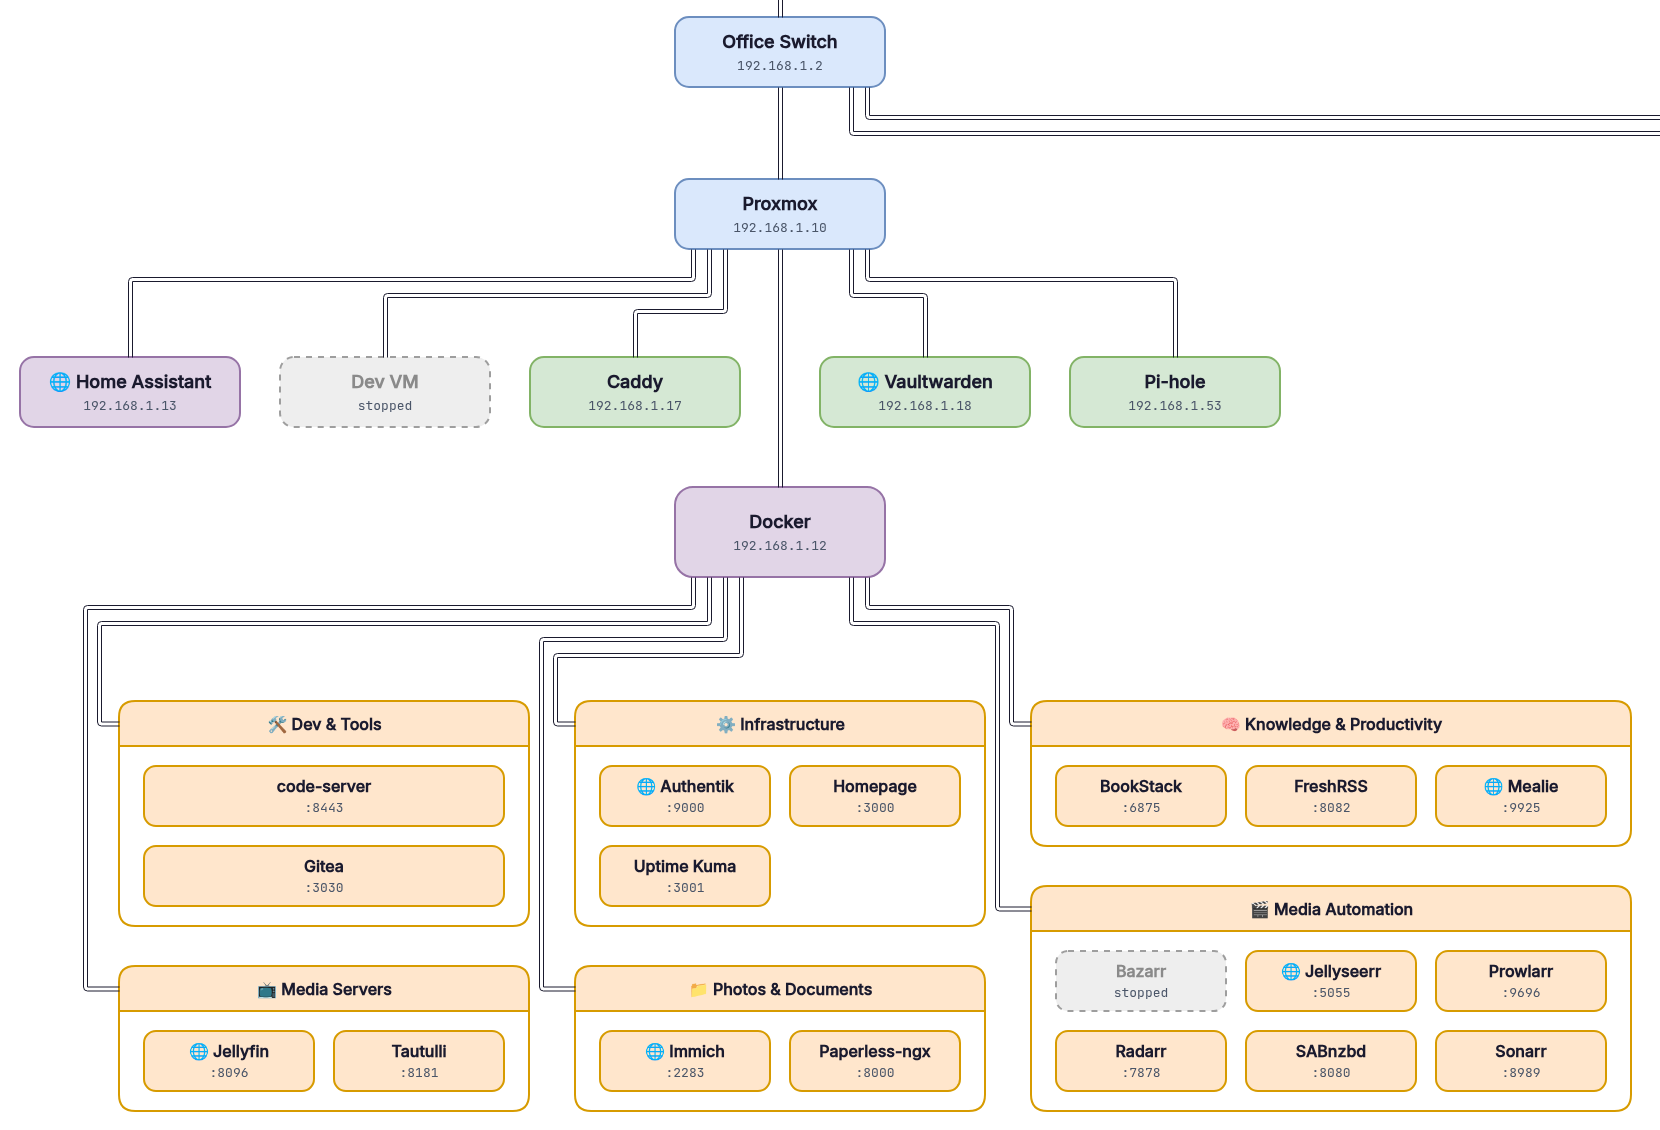
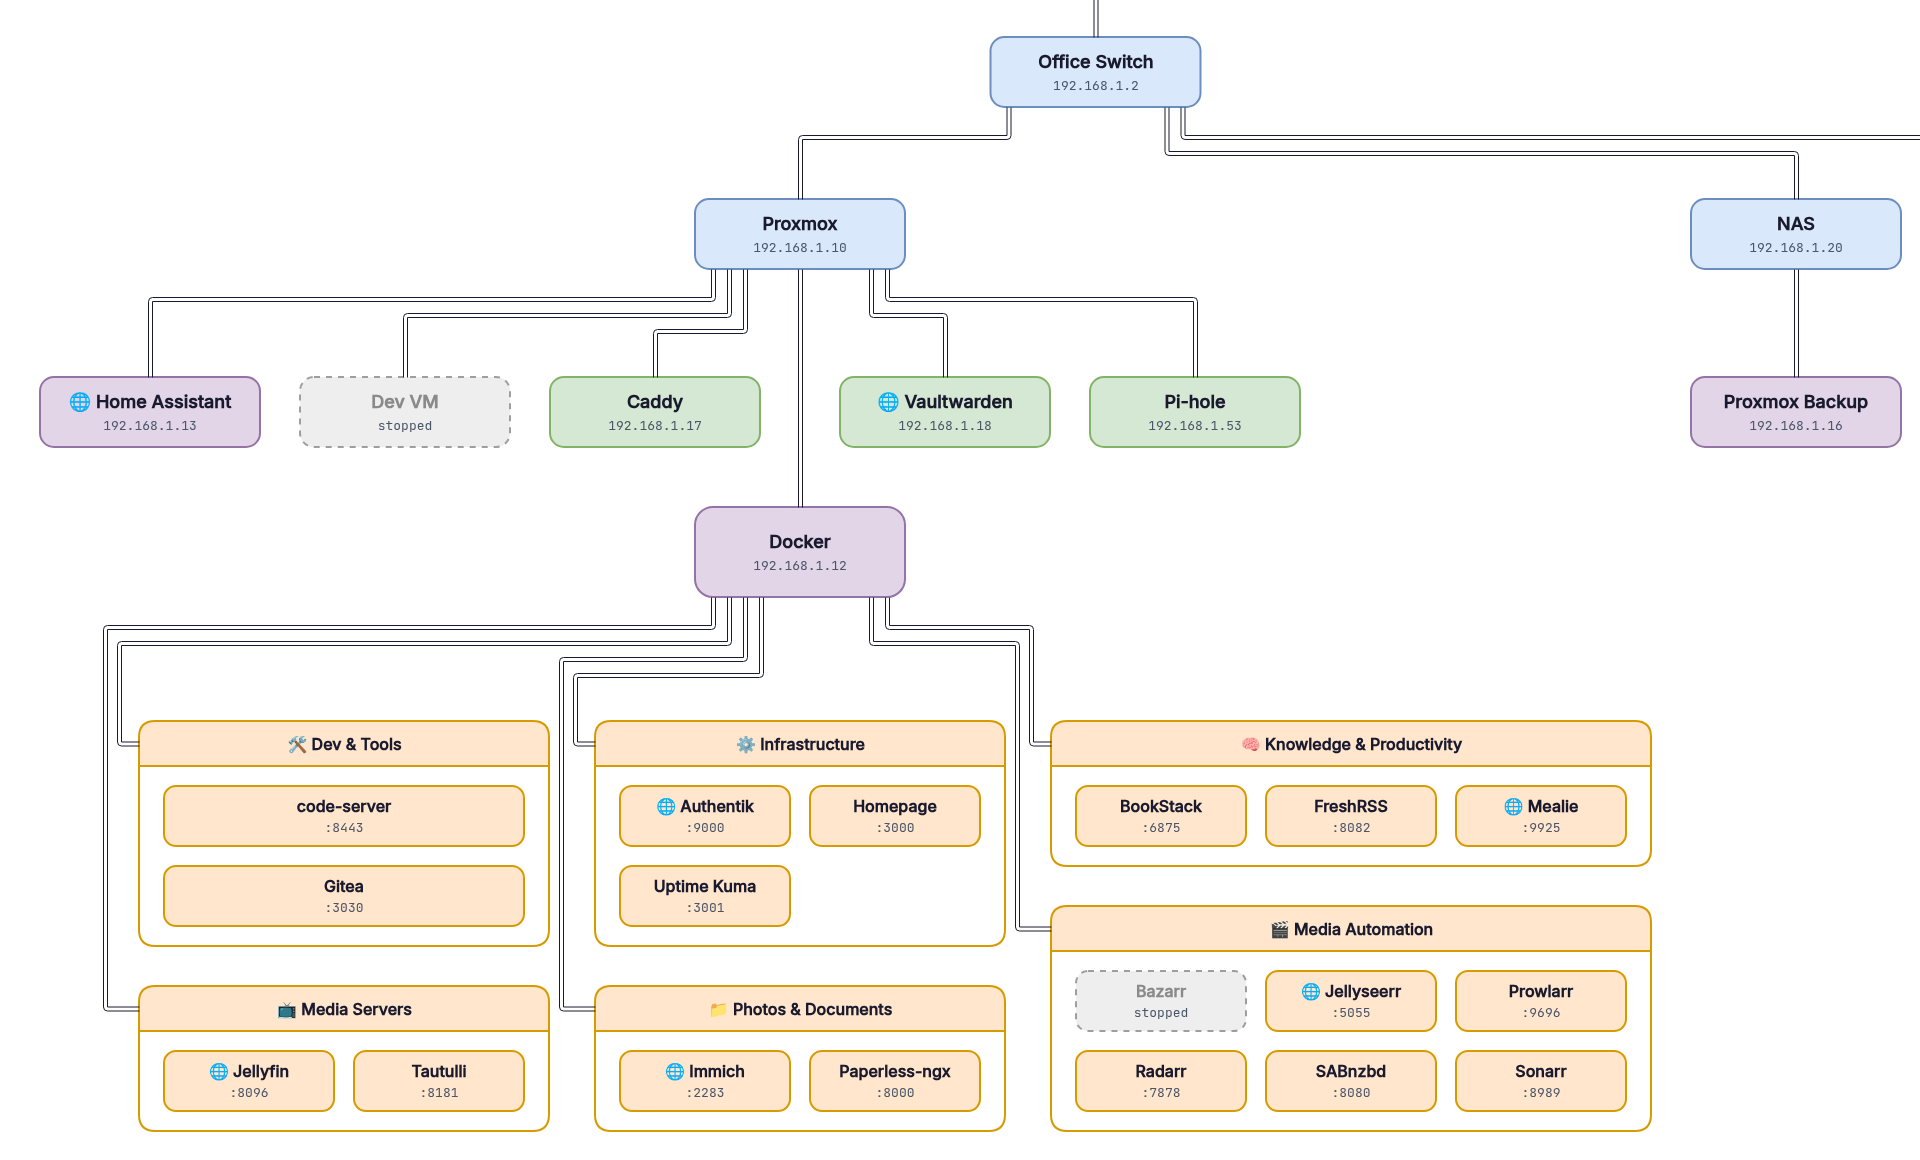
Lay out each tier as one straight row; keep the arrangement stable
Stacking short branches under their neighbours saved space but forced lines
into boxes from the side. It's now opt-in (layout.stack); by default every
tier is one row and every line runs down, across and down into its box.

The chosen column counts are remembered in the saved state, so small changes
(a phone roaming between access points) don't reshuffle the map; a fresh
arrangement replaces it only if it's at least 5% better.

diff --git a/homelab_map/layout.py b/homelab_map/layout.py
@@ -228,6 +228,7 @@ class _Col:
         self.members = members
         self.margin = CHANNEL_GAP + (len(members) - 2) * CHANNEL_STEP + CLEAR
         self.w = self.x = 0
+        self.direct = [True] + [False] * (len(members) - 1)  # fed straight down into its top?
 
     def measure(self):
         self.w = self.margin + max(_item_w(m) for m in self.members)
@@ -236,7 +237,21 @@ class _Col:
         return self.x + self.margin - CHANNEL_GAP - (j - 1) * CHANNEL_STEP
 
     def channels(self):
-        return [self.channel(j) for j in range(1, len(self.members))]
+        return [self.channel(j) for j in range(1, len(self.members)) if not self.direct[j]]
+
+    def route(self):
+        """A lower one gets a straight line down into its top when nothing above it in the column (boxes,
+        lines, or the side lines into those) is in the way; otherwise it uses its channel."""
+        pad = EDGE_PAD + BOX_PAD + 2
+        spans = []
+        for j, m in enumerate(self.members):
+            cx = m.x + m.w / 2
+            if j:
+                self.direct[j] = all(cx < lo - pad or cx > hi + pad for lo, hi in spans)
+            lo, hi = _x_extent(m)
+            if not self.direct[j]:
+                lo = min(lo, self.channel(j))
+            spans.append((lo, hi))
 
     def top_x(self):
         m = self.members[0]
@@ -263,6 +278,11 @@ class _Tree:
 
 def _is_leaf(it):
     return isinstance(it, _Lane) or (isinstance(it, _Tree) and not it.items and not it.grid and not it.hoisted)
+
+
+def _key(it):
+    """What a stacking choice calls a child: its node id, or its lane's key (stable between runs)."""
+    return it.node.id if isinstance(it, _Tree) else it.key
 
 
 def _col_of(t):
@@ -369,16 +389,13 @@ def build_tree(graph, cfg, opts=None, children=None):
                 it.depth = depth + 1
         stack = opts.get("stack", {}).get(node.id)
         if stack and not t.hoisted:
-            i, j, reverse = stack
-            movable = [it for it in t.items if not (isinstance(it, _Lane) and it.side)]
-            if 0 <= i < j < len(movable):
-                members = movable[i:j + 1]
-                if reverse:
-                    members = members[::-1]
+            movable = {_key(it): it for it in t.items if not (isinstance(it, _Lane) and it.side)}
+            members = [movable[k] for k in stack if k in movable]
+            if len(members) >= 2:
                 # each lower one starts below everything above it (rows are fixed up again after placing)
                 for a, b in zip(members, members[1:]):
                     _shift_depth(b, _max_depth(a) + 1 - (depth + 1))
-                pos = t.items.index(movable[i])
+                pos = min(t.items.index(m) for m in members)
                 t.items = [it for it in t.items if it not in members]
                 t.items.insert(pos, _Col(members))
         return t
@@ -457,6 +474,7 @@ def _line_count(t):
 
 
 def _place_x(t, left):
+    t._left = left
     if t.vpn:  # room kept on the left for the VPN lane, if the node needed it (see _measure)
         outer_left = left
         left += t.vpn_pad
@@ -497,11 +515,17 @@ def _place_x(t, left):
     cx = near if abs(near - row_centre) <= t.w / 2 or len(centres) == 1 else row_centre
     t.x = min(max(cx - t.w / 2, left), left + inner - t.w)
     col = _col_of(t)
-    if col:  # the column's channels must not run under the node, or its lines would turn both ways
+    if col:
+        # The column's channels must not run under the node (its lines would turn both ways). Of the
+        # positions clear of them (where centring put it, or just right of them, above the column's
+        # top), take the one with the shortest lines.
         chs = col.channels()
-        lo, hi = min(chs) - CLEAR, max(chs) + CLEAR
-        if not (t.x + t.w < lo or t.x > hi):
-            t.x = hi
+        if chs:
+            lo, hi = min(chs) - CLEAR, max(chs) + CLEAR
+            options = [x for x in (t.x, hi, lo - t.w)
+                       if (x + t.w <= lo or x >= hi) and left <= x <= left + inner - t.w] or [hi]
+            xs = _targets_x(t)
+            t.x = min(options, key=lambda x: sum(abs(c - (x + t.w / 2)) for c in xs))
     if t.vpn:
         t.vpn.x = max(t.x - SIBLING_GAP - t.vpn.w, outer_left)
 
@@ -513,8 +537,38 @@ def _place_item(it, x):
         it.x = x
         for m in it.members:
             _place_item(m, x + it.margin)
+        # move each one right, up to just short of the straight line down into the one below it, so it
+        # sits beside that line instead of out at the column's edge (bottom pair first)
+        pad = EDGE_PAD + BOX_PAD + 4
+        for upper, lower in reversed(list(zip(it.members, it.members[1:]))):
+            line_x = lower.x + lower.w / 2
+            lo, hi = _x_extent(upper)
+            shift = (line_x - pad) - hi
+            if shift > 0:
+                _place_item(upper, lo + shift if isinstance(upper, _Lane) else upper_left(upper) + shift)
+        it.route()
     else:
         it.x = x
+
+
+def upper_left(it):
+    """Where a subtree's rectangle starts (what _place_x was given)."""
+    return _x_extent(it)[0] if not isinstance(it, _Tree) else it._left
+
+
+def _x_extent(it):
+    """Leftmost and rightmost x of anything drawn for `it` (boxes, and so the lines between them)."""
+    if isinstance(it, _Col):
+        ext = [_x_extent(m) for m in it.members] + [(c, c) for c in it.channels()]
+        return min(e[0] for e in ext), max(e[1] for e in ext)
+    lo, hi = it.x, it.x + it.w
+    if isinstance(it, _Tree):
+        for c in it.items + ([it.hoisted] if it.hoisted else []) + ([it.vpn] if it.vpn else []):
+            clo, chi = _x_extent(c)
+            lo, hi = min(lo, clo), max(hi, chi)
+        if it.grid:
+            lo, hi = min(lo, it.grid.x), max(hi, it.grid.x + it.grid.w)
+    return lo, hi
 
 
 def _collect(t, rows):
@@ -535,7 +589,7 @@ def _targets_x(t, margin=20):
     xs = []
     for it in t.items:
         if isinstance(it, _Col):
-            xs += [it.top_x()] + it.channels()
+            xs += [m.x + m.w / 2 for m, d in zip(it.members, it.direct) if d] + it.channels()
         elif not _from_side(t, it, margin):
             xs.append(it.x + it.w / 2)
     if t.hoisted:
@@ -568,16 +622,21 @@ def layout(graph, cfg, top=0, left=0):
 _COMPACT_CACHE = {}  # the network's structure rarely changes: reuse the last choice for it
 
 
+WIRE_COST = 40  # px of area one px of line is worth: a compact map mustn't come from long detours
+
+
 def _area(graph, cfg, opts, children=None):
-    """The map's area, measured without drawing it (the search compares hundreds of these)."""
+    """How good an arrangement is (smaller is better): the map's area plus a cost for every px of
+    line, measured without drawing it (the search compares hundreds of these)."""
     size = _layout(graph, cfg, 0, 0, opts, children, size_only=True)
     if size is None:
         return float("inf")  # never choose an arrangement that couldn't be made to fit
-    return size[0] * size[1]
+    return size[0] * size[1] + WIRE_COST * size[2]
 
 
-def _knobs(root):
-    """Every lane (its item columns) and every container grid (its lane columns) in the tree."""
+def _knobs(root, stack=False):
+    """Every lane (its item columns) and every container grid (its lane columns) in the tree, and,
+    if `stack`, every run of neighbouring children that could be stacked in a column."""
     out = []
 
     def lane(l):
@@ -586,10 +645,10 @@ def _knobs(root):
     def walk(t):
         items = [x for it in t.items for x in (it.members if isinstance(it, _Col) else [it])]
         movable = [it for it in items if not (isinstance(it, _Lane) and it.side)]
-        if not t.hoisted and len(movable) >= 2:
-            n = len(movable)
-            out.append(("stack", t.node.id, [None] + [(i, j, r) for i in range(n) for j in range(i + 1, min(n, i + 3))
-                                                       for r in (False, True)]))
+        if stack and not t.hoisted and len(movable) >= 2:
+            keys = [_key(it) for it in movable]
+            windows = [tuple(keys[i:j + 1]) for i in range(len(keys)) for j in range(i + 1, min(len(keys), i + 3))]
+            out.append(("stack", t.node.id, [None] + windows + [w[::-1] for w in windows]))
         for it in items + ([t.vpn] if t.vpn else []) + ([t.hoisted] if t.hoisted else []):
             walk(it) if isinstance(it, _Tree) else lane(it)
         if t.grid:
@@ -602,17 +661,53 @@ def _knobs(root):
     return out
 
 
+_PREVIOUS = None  # the arrangement used last time: kept unless something is clearly better
+STABILITY = 0.95  # a fresh arrangement must be at least 5% better to replace the previous one
+
+
+def set_previous(opts):
+    """Seed the arrangement to keep (e.g. from saved state), so a restart doesn't reshuffle the map."""
+    global _PREVIOUS
+    if opts:
+        _PREVIOUS = {"lane_cols": dict(opts.get("lane_cols", {})), "grid_cols": dict(opts.get("grid_cols", {})),
+                     "stack": {k: tuple(v) if v else None for k, v in opts.get("stack", {}).items()}}
+
+
+def get_previous():
+    return _PREVIOUS
+
+
 def _compact(graph, cfg):
-    """Try other column counts for each lane and grid, and stacking neighbouring children in a column,
-    one at a time, keeping any that make the whole map smaller, until nothing helps."""
-    signature = (cfg["layout"]["lane_threshold"], cfg["containers"]["lane_columns"], tuple(cfg["containers"]["groups"]),
-                 tuple(sorted((n.id, n.parent, n.lane, n.kind, n.docker_host) for n in graph.nodes.values())))
+    """Choose column counts and which children to stack. Small changes to the network (a phone moving
+    between access points, a new container) shouldn't reshuffle the whole map, so the previous
+    arrangement is improved on and kept, unless a search from scratch finds one clearly (5%) better."""
+    global _PREVIOUS
+    signature = (cfg["layout"]["lane_threshold"], cfg["layout"].get("stack", False), cfg["containers"]["lane_columns"], tuple(cfg["containers"]["groups"]),
+                 tuple(sorted((n.id, n.parent, n.lane, n.kind, n.docker_host) for n in graph.nodes.values())),
+                 repr(_PREVIOUS))
     if signature in _COMPACT_CACHE:
         return _COMPACT_CACHE[signature]
-    opts = {"lane_cols": {}, "grid_cols": {}, "stack": {}}
-    best = _area(graph, cfg, opts)
     children = _children(graph)
-    knobs = _knobs(build_tree(graph, cfg, opts, children))
+    fresh, fresh_score = _search(graph, cfg, children, {"lane_cols": {}, "grid_cols": {}, "stack": {}})
+    opts = fresh
+    if _PREVIOUS:
+        kept, kept_score = _search(graph, cfg, children, _PREVIOUS)
+        if fresh_score >= STABILITY * kept_score:
+            opts = kept
+    if len(_COMPACT_CACHE) > 20:
+        _COMPACT_CACHE.clear()
+    _COMPACT_CACHE[signature] = opts
+    _PREVIOUS = opts
+    return opts
+
+
+def _search(graph, cfg, children, start):
+    """Greedy: try each choice's alternatives in turn, keeping any that improve the score."""
+    opts = {"lane_cols": dict(start["lane_cols"]), "grid_cols": dict(start["grid_cols"]), "stack": dict(start["stack"])}
+    best = _area(graph, cfg, opts, children)
+    if not cfg["layout"].get("stack", False):
+        opts["stack"] = {}
+    knobs = _knobs(build_tree(graph, cfg, opts, children), cfg["layout"].get("stack", False))
     for _ in range(3):
         improved = False
         for kind, key, values in knobs:
@@ -625,10 +720,7 @@ def _compact(graph, cfg):
                     best, opts, improved = a, trial, True
         if not improved:
             break
-    if len(_COMPACT_CACHE) > 20:
-        _COMPACT_CACHE.clear()
-    _COMPACT_CACHE[signature] = opts
-    return opts
+    return opts, best
 
 
 def _rows(root, top):
@@ -704,7 +796,7 @@ def _layout(graph, cfg, top, left, opts, children=None, size_only=False):
             settled = True
             break
     if size_only:
-        return (root.sub_w, _bottom(root, row_tops) - top) if settled else None
+        return (root.sub_w, _bottom(root, row_tops) - top, _wire_length(rows, row_tops, bands)) if settled else None
     scene = Scene()
     scene.settled = settled
 
@@ -723,7 +815,7 @@ def _layout(graph, cfg, top, left, opts, children=None, size_only=False):
                         else:
                             y = row_tops[m.depth]
                             dst, entry_y = m.place(scene, m.x, y), y + LANE_HEAD / 2
-                        if j == 0:
+                        if it.direct[j]:  # straight down into its top
                             targets.append((dst, m.x + m.w / 2, y, None))
                         else:
                             targets.append((dst, it.channel(j), entry_y, m.x))
@@ -744,6 +836,41 @@ def _layout(graph, cfg, top, left, opts, children=None, size_only=False):
             _fanout(scene, t, targets, band_top)
             _side_fanout(scene, t, side)
     return scene
+
+
+def _wire_length(rows, row_tops, bands):
+    """Roughly how long all the lines are (horizontal + vertical runs), without drawing them."""
+    total = 0
+    for depth, trees in rows.items():
+        for t in trees:
+            bx, by = t.x + t.w / 2, t.y + t.h
+            below = bands[depth][0] + bands[depth][1]
+            for it in t.items:
+                if isinstance(it, _Col):
+                    for j, m in enumerate(it.members):
+                        top = m.y if isinstance(m, _Tree) else row_tops[m.depth]
+                        if it.direct[j]:
+                            total += abs(m.x + m.w / 2 - bx) + (top - by)
+                        else:
+                            ch = it.channel(j)
+                            total += abs(ch - bx) + (top + 30 - by) + abs(m.x - ch)
+                elif isinstance(it, _Lane) and it.side:
+                    total += abs(it.x + it.w / 2 - (t.x + t.w)) + (below - t.y)
+                else:
+                    total += abs(it.x + it.w / 2 - bx) + (below - by)
+            if t.hoisted:
+                d = t.hoisted
+                total += abs(d.x + d.w / 2 - bx) + (row_tops[d.depth] - by)
+            if t.grid:
+                for col, cx in zip(t.grid.cols, t.grid.col_x):
+                    y = below
+                    for i, lane in enumerate(col):
+                        ch = t.grid.x + cx - CHANNEL_GAP - i * CHANNEL_STEP
+                        total += abs(ch - bx) + (y + LANE_HEAD / 2 - by) + (t.grid.x + cx - ch)
+                        y += lane.h + LANE_STACK_GAP
+            if t.vpn:
+                total += abs(t.x - (t.vpn.x + t.vpn.w))
+    return total
 
 
 def _fanout(scene, t, targets, band_top):

diff --git a/homelab_map/runner.py b/homelab_map/runner.py
@@ -11,7 +11,7 @@ import json
 import os
 import time
 
-from . import drawio, notify, render
+from . import drawio, layout, notify, render
 from .collect import collect
 from .config import redact
 from .layout import LayoutError
@@ -60,8 +60,10 @@ def run_once(cfg, state, force=False):
         notify.send(cfg["notify"], "homelab-map", "\n".join(fresh)[-1500:], log)
     state["warnings"] = graph.warnings
 
+    layout.set_previous(state.get("layout_opts"))  # keep the map's arrangement stable across restarts
     try:
         light, dark, scene = drawio.build(graph, cfg)
+        state["layout_opts"] = layout.get_previous()
         clear(state, "layout")
     except LayoutError as e:
         alert(cfg, state, "layout", "homelab-map: layout problem, map not updated", str(e))

diff --git a/homelab_map/config.py b/homelab_map/config.py
@@ -66,7 +66,8 @@ DEFAULTS = {
     },
     "layout": {
         "lane_threshold": 6,             # more leaf devices than this under one parent become a lane
-        "compact": True,                 # stack short branches and pick lane columns to waste the least space
+        "compact": True,                 # pick lane and grid columns to waste the least space
+        "stack": False,                  # also stack short branches under their neighbours (smaller, busier lines)
     },
     "outputs": {
         "files": {"enabled": True, "formats": ["drawio", "png", "pdf"]},

diff --git a/README.md b/README.md
@@ -9,7 +9,7 @@
 
 <picture>
   <source media="(prefers-color-scheme: dark)" srcset="docs/demo-dark-closeup.png">
-  <img alt="Close-up: a gateway and switch above a Proxmox host with VMs and LXCs (one stopped, shown greyed out), a NAS with a backup VM, and a Docker host whose containers are grouped into lanes such as Media Automation and Infrastructure, with a globe on the public ones" src="docs/demo-light-closeup.png">
+  <img alt="Close-up: a switch above a Proxmox host with VMs and LXCs (one stopped, shown greyed out), a NAS with a backup VM, and a Docker host whose containers are grouped into lanes such as Media Automation and Infrastructure, with a globe on the public ones" src="docs/demo-light-closeup.png">
 </picture>
 
 <sub>Close-up: a Proxmox host and its guests, and a Docker host's containers grouped into lanes. Stopped things are greyed out; 🌐 marks public services.</sub>
@@ -40,9 +40,10 @@ are greyed out with a dashed border, and 🌐 marks services reachable from the 
   Docker VM.
 - A Docker host's containers are grouped into lanes (Media Automation, Infrastructure, ...) in a
   grid below it, and every lane has its own line.
-- It wastes as little space as it can: short branches are tucked under their neighbours instead of
-  leaving empty space beside a deep one, and each lane gets the number of columns that makes the
-  whole map smallest. Set `layout: {compact: false}` to turn that off.
+- Every tier is one straight row, and every line runs down, across and down into the top of its box.
+  Each lane and container grid gets the number of columns that makes the whole map smallest
+  (`layout: {compact: false}` turns that off). `layout: {stack: true}` also tucks short branches
+  under their neighbours: a smaller map, but busier lines.
 
 ## Status
 
